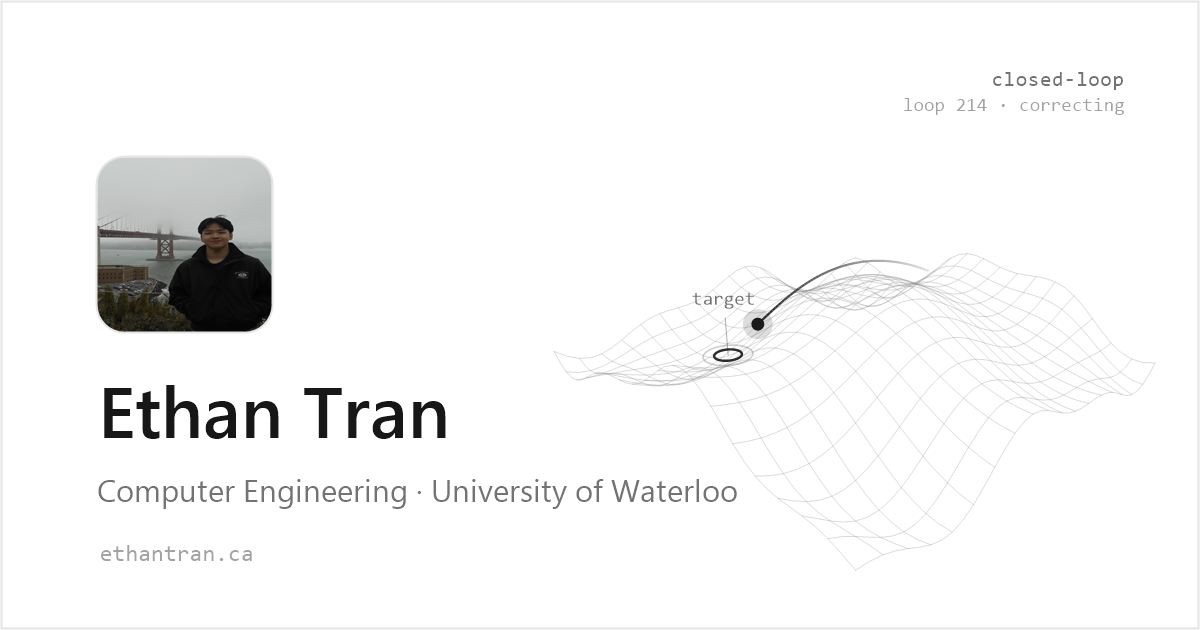
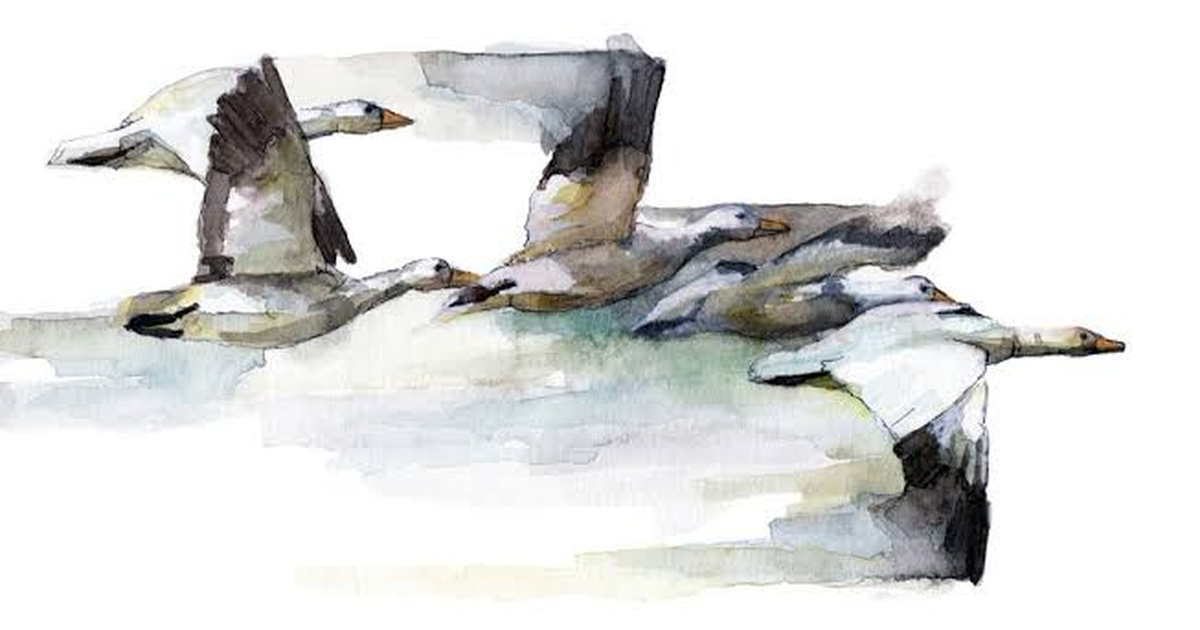
Swap the link-preview thumbnail for the geese watercolor
Cache-bust the og:image URL so Discord and others refetch it, and
describe the painting in the alt text.

diff --git a/index.html b/index.html
@@ -16,15 +16,15 @@
   <meta property="og:title" content="Ethan Tran — Computer Engineering">
   <meta property="og:description"
     content="Computer Engineering student at the University of Waterloo — embedded systems, firmware, and hardware that feels like software.">
-  <meta property="og:image" content="https://www.ethantran.ca/og.png">
+  <meta property="og:image" content="https://www.ethantran.ca/og.png?v=2">
   <meta property="og:image:width" content="1200">
   <meta property="og:image:height" content="630">
-  <meta property="og:image:alt" content="Ethan Tran — Computer Engineering student at the University of Waterloo">
+  <meta property="og:image:alt" content="Watercolor of a flock of geese in flight">
   <meta name="twitter:card" content="summary_large_image">
   <meta name="twitter:title" content="Ethan Tran — Computer Engineering">
   <meta name="twitter:description"
     content="Computer Engineering student at the University of Waterloo — embedded systems, firmware, and hardware that feels like software.">
-  <meta name="twitter:image" content="https://www.ethantran.ca/og.png">
+  <meta name="twitter:image" content="https://www.ethantran.ca/og.png?v=2">
   <meta name="theme-color" content="#fffbeb">
   <script src="https://cdn.tailwindcss.com"></script>
   <script>
